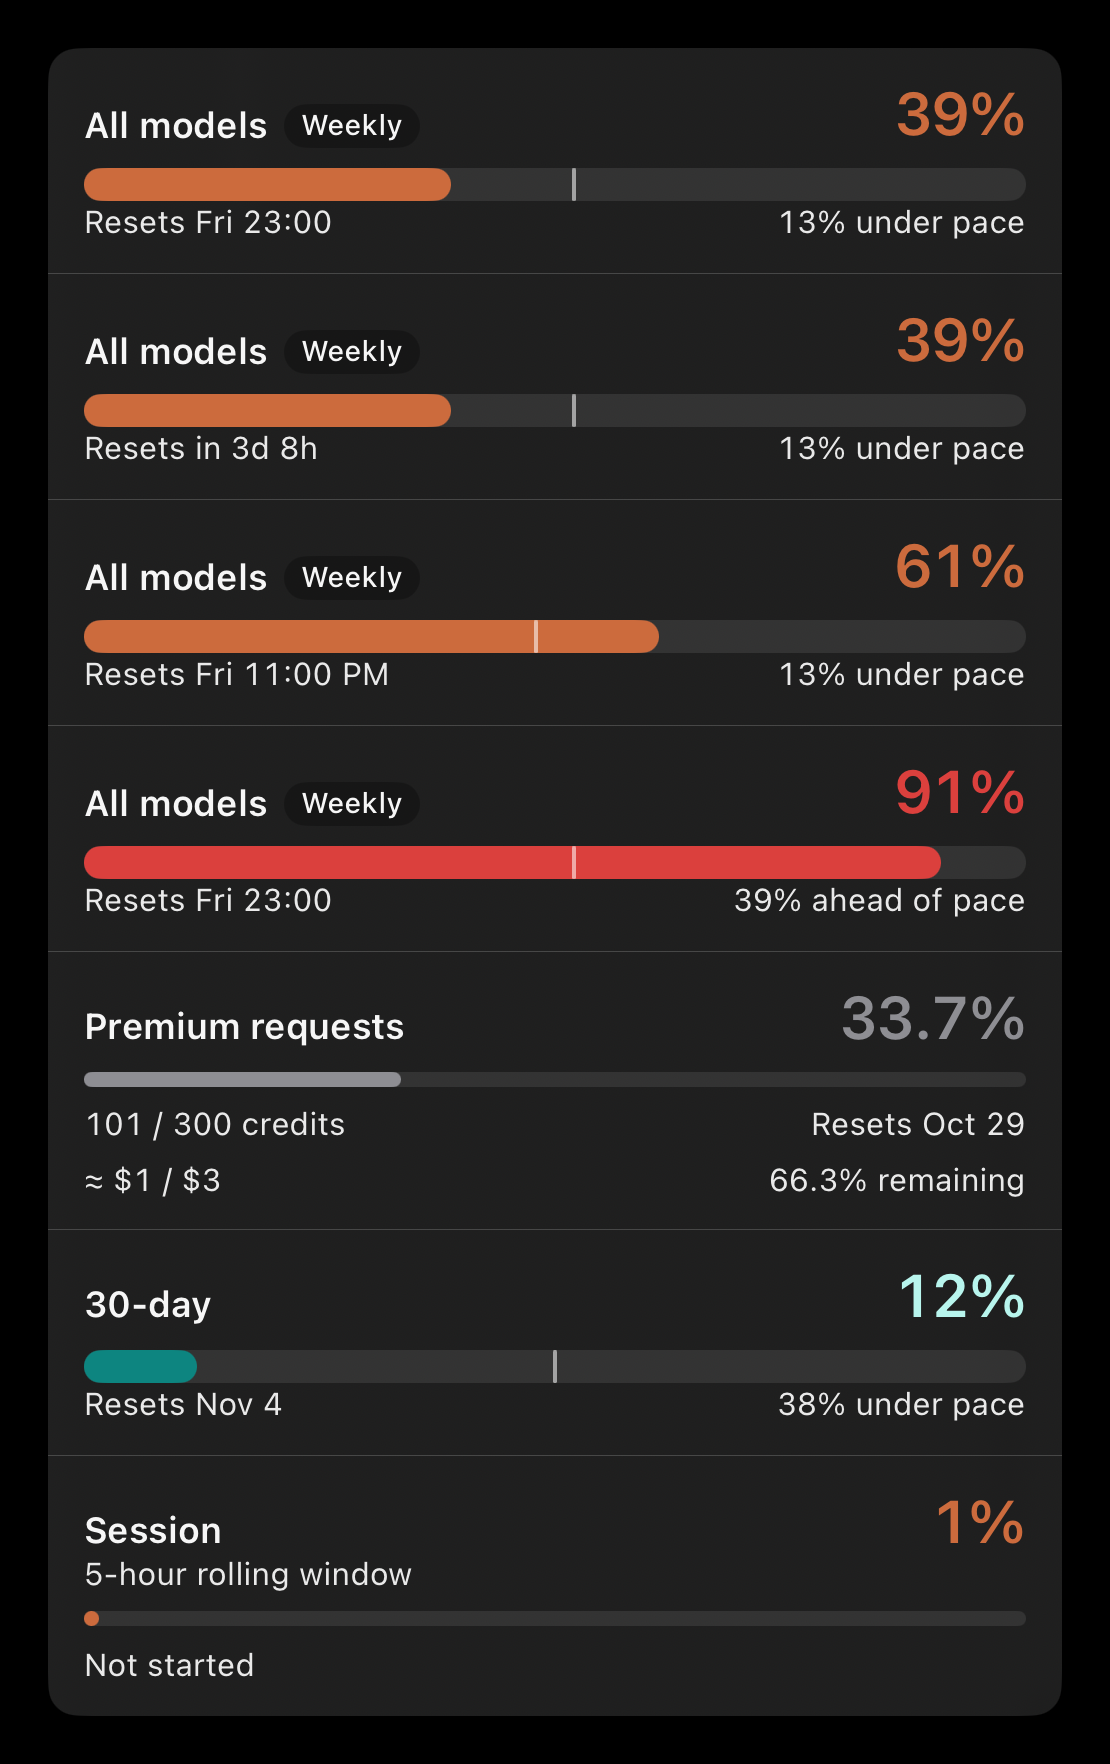
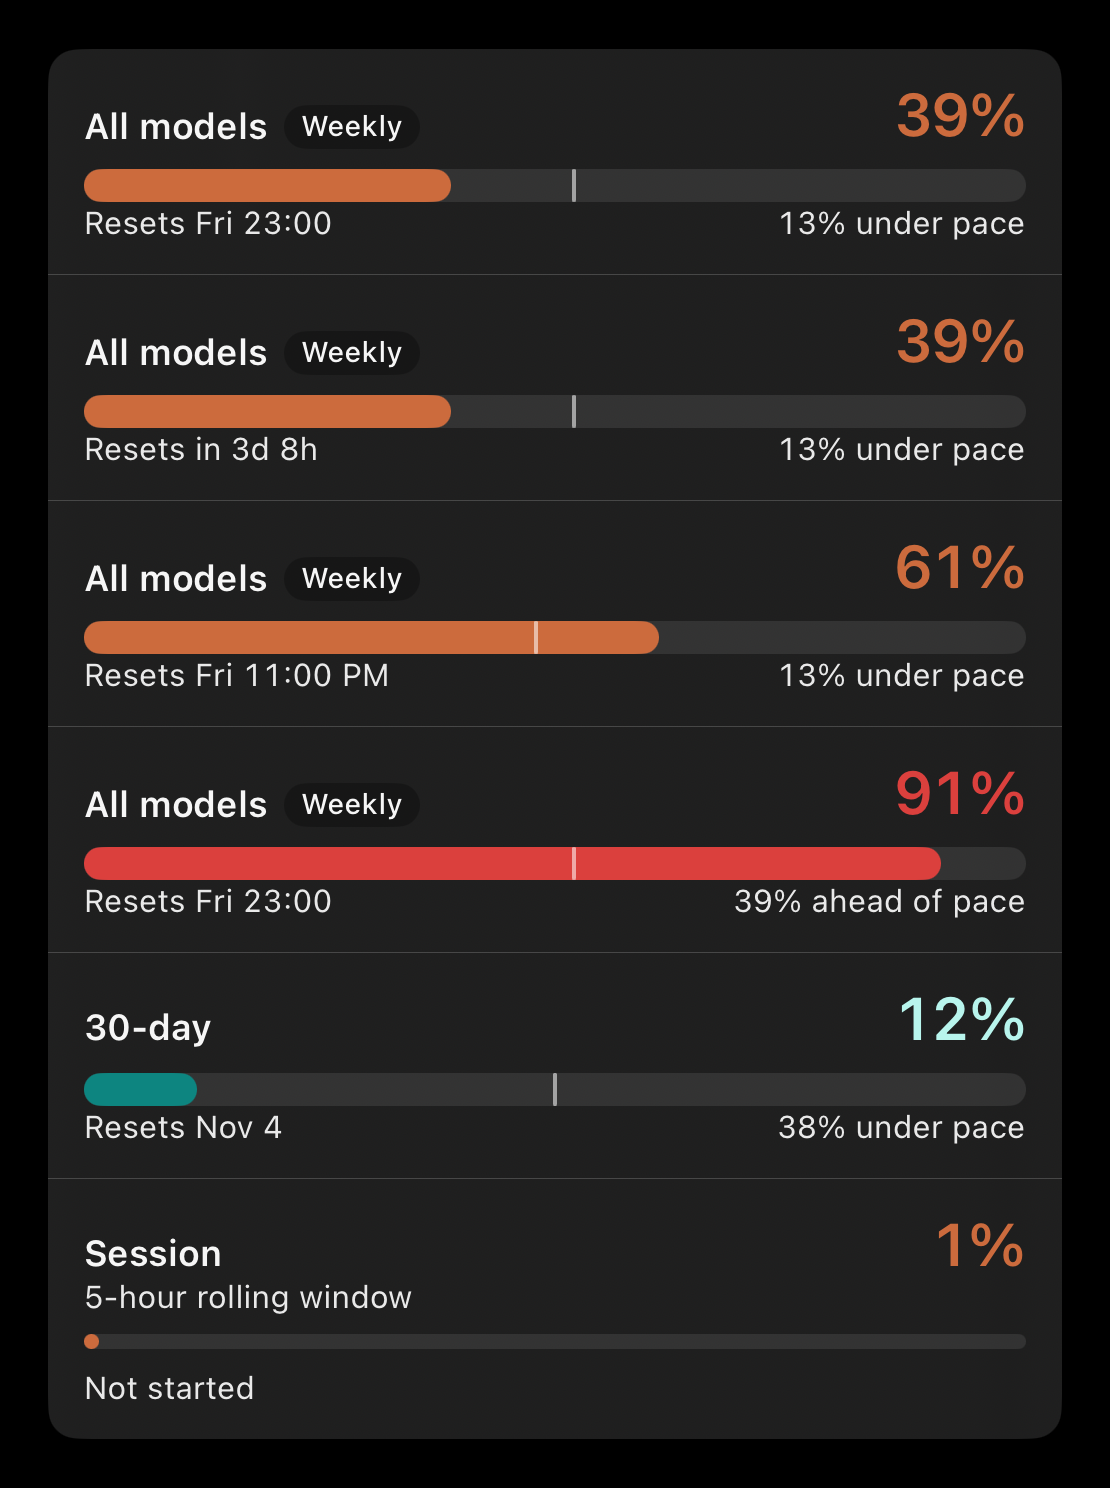
fix(ios): drop Copilot from MeterView and meter gallery

diff --git a/iOS/App/Theme/MeterView.swift b/iOS/App/Theme/MeterView.swift
@@ -66,17 +66,14 @@ struct MeterView: View {
                     }
                 }
                 Spacer()
-                Text(percent(d))
+                Text(d.percentText)
                     .font(.system(size: d.fraction == nil ? 13 : 20, weight: .semibold).monospacedDigit())
                     .foregroundStyle(d.fraction == nil ? dim : glassTint(d.severity, color))
             }
             if d.fraction != nil {
                 GlassMeterBar(fraction: d.fraction, paceTick: d.paceTick, color: color)
             }
-            footer(left: leftText(d), right: d.detailText != nil ? d.resetText : (d.paceText ?? ""))
-            if let money = moneyText(d) {
-                footer(left: money, right: remainingText(d), tappable: false)
-            }
+            footer(left: d.resetText, right: d.paceText ?? "")
         }
     }
 
@@ -91,7 +88,7 @@ struct MeterView: View {
             HStack(alignment: .firstTextBaseline) {
                 Text(instrumentLabel(d)).font(.system(size: 12))
                 Spacer(minLength: 10)
-                Text(percent(d))
+                Text(d.percentText)
                     .font(.system(size: 12, weight: .semibold).monospacedDigit())
                     .foregroundStyle(d.fraction == nil ? dim : instrumentTint(d.severity))
             }
@@ -99,7 +96,7 @@ struct MeterView: View {
                 GlassMeterBar(fraction: d.fraction, paceTick: d.paceTick, color: GlassStyle.color(d.severity, kind), height: 4)
                     .padding(.top, 5)
             }
-            footer(left: leftText(d), right: instrumentRight(d))
+            footer(left: d.resetText, right: d.paceText ?? (d.fraction == 0 ? "idle" : ""))
                 .padding(.top, 7)
         }
         .padding(.top, 9)
@@ -109,12 +106,6 @@ struct MeterView: View {
         if kind == .claude && d.paceTick == nil && d.paceText == nil && d.label == "Session" { return "Session (5h)" }
         if kind == .codex { return d.label }
         return d.paceText != nil || d.paceTick != nil ? "\(d.label), weekly" : d.label
-    }
-
-    private func instrumentRight(_ d: MeterDisplay) -> String {
-        if let money = moneyText(d) { return money }
-        if d.detailText == nil, kind == .copilot { return "" }
-        return d.paceText ?? (d.fraction == 0 ? "idle" : "")
     }
 
     private func instrumentTint(_ s: Meter.Severity) -> Color {
@@ -135,32 +126,10 @@ struct MeterView: View {
 
     private var dim: Color { scheme == .dark ? .white.opacity(0.90) : .secondary }
 
-    /// Copilot premium keeps one decimal (33.7%), as on the Mac.
-    private func percent(_ d: MeterDisplay) -> String {
-        guard d.detailText != nil, let f = d.fraction else { return d.percentText }
-        return String(format: "%.1f%%", f * 100)
-    }
-
-    private func leftText(_ d: MeterDisplay) -> String {
-        guard let detail = d.detailText else { return d.resetText }
-        return String(detail.split(separator: " (≈").first ?? "")
-    }
-
-    private func moneyText(_ d: MeterDisplay) -> String? {
-        guard let detail = d.detailText, let r = detail.range(of: "(≈ ") else { return nil }
-        return "≈ " + detail[r.upperBound...].dropLast()
-    }
-
-    private func remainingText(_ d: MeterDisplay) -> String {
-        guard let f = d.fraction else { return "" }
-        let used = d.isRemaining ? 1 - f : f
-        return String(format: "%.1f%% remaining", (1 - used) * 100)
-    }
-
-    /// Footer line; the left text toggles the reset style when it is the reset text and a handler exists.
-    private func footer(left: String, right: String, tappable: Bool = true) -> some View {
+    /// Footer line; the reset text toggles the reset style when a handler exists.
+    private func footer(left: String, right: String) -> some View {
         HStack {
-            resetLabel(left, tappable: tappable && left == display.resetText)
+            resetLabel(left)
             Spacer(minLength: 6)
             Text(right).lineLimit(1)
         }
@@ -169,8 +138,8 @@ struct MeterView: View {
     }
 
     @ViewBuilder
-    private func resetLabel(_ text: String, tappable: Bool) -> some View {
-        if tappable, let onToggleReset {
+    private func resetLabel(_ text: String) -> some View {
+        if let onToggleReset {
             Button(action: onToggleReset) {
                 Text(text).lineLimit(1)
                     .frame(minHeight: 44, alignment: .leading)

diff --git a/iOS/App/Snapshots/MeterSnapshots.swift b/iOS/App/Snapshots/MeterSnapshots.swift
@@ -26,15 +26,6 @@ private struct MeterGallery: View {
         let session = snaps[Fixtures.snorlax]!.meters[0]
         let eeveeWeekly = snaps[Fixtures.eevee]!.meters[1]
         let codex = snaps[Fixtures.mewtwo]!.meters[0]
-        let copilot = Meter(
-            kind: .copilotPremium,
-            label: "Premium requests",
-            percentUsed: 33.7,
-            used: 101,
-            limit: 300,
-            unit: "requests",
-            resetsAt: now.addingTimeInterval(9 * 86_400)
-        )
         let base = DisplaySettings.default
         var h24 = base; h24.hour24 = .on
         var countdown = h24; countdown.resetStyle = .countdown
@@ -44,7 +35,6 @@ private struct MeterGallery: View {
             Item(meter: all, settings: countdown),
             Item(meter: all, settings: remaining),
             Item(meter: eeveeWeekly, settings: h24),
-            Item(meter: copilot, settings: h24),
             Item(meter: codex, settings: h24),
             Item(meter: session, settings: h24),
         ]
